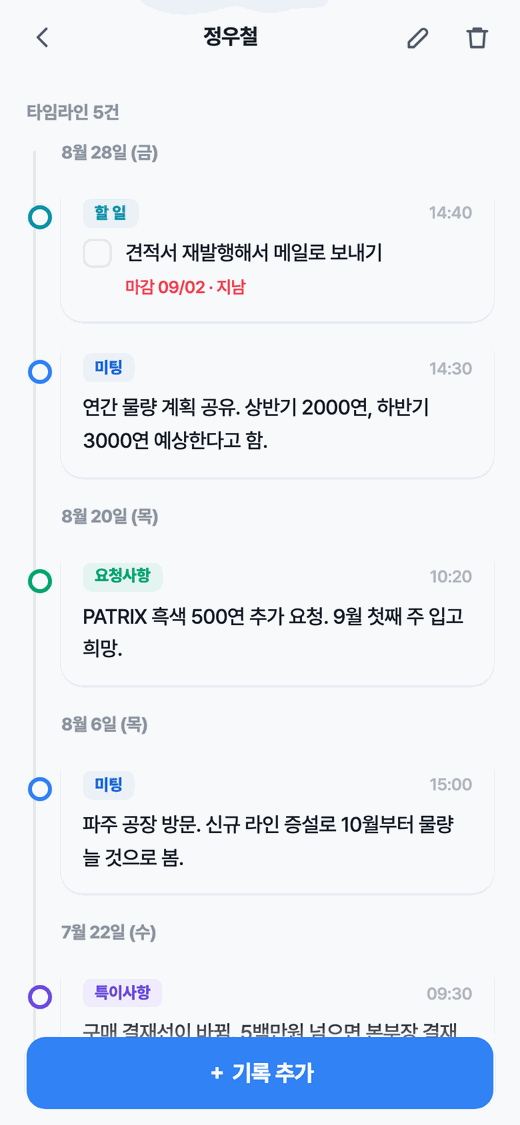
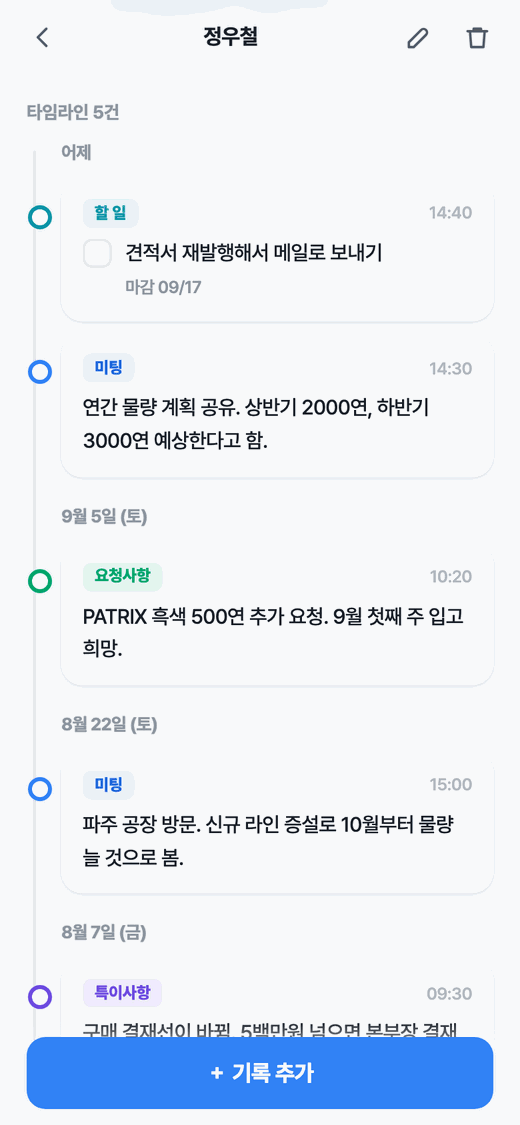
예시 화면의 날짜를 오늘 기준으로 셉니다
날짜를 박아 두었더니 다시 찍을 때마다 목록이 통째로 '납기 지남' 이 됐습니다.
홈페이지와 로그인 화면에 나가 있던 Re:Bind 그림이 '진행 중 2건 · 납기 지난 3건' 이었습니다.

예시날(n) · 예시시각(n,h,m) · 예시짧은(n) 을 두고 전부 상대값으로 바꿨습니다.
발주번호에 박힌 날짜(GD-260829-01)도 함께 — 번호만 8월이면 그것도 거짓말입니다.
Re:Call 은 이미 상대 도우미가 있었는데 바닥이 2026-08-29 로 박혀 있었습니다.

Re:Call 의 예시 이름만 '홍길동' 입니다 — 위쪽 막대가 '담당자 <이름>' 이라
이름까지 '담당자' 면 '담당자 담당자' 로 찍힙니다.

diff --git a/shots/bind-detail.js b/shots/bind-detail.js
@@ -1,4 +1,12 @@
 /* 예시 자료. 연락처는 우리 것을 씁니다 — 남의 번호를 박아 두면 그 사람에게 전화가 갑니다. */
+
+/* ⚠ 날짜를 박아 두면 안 됩니다.
+   예전에는 '2026-08-30' 처럼 적어 두었더니, 몇 달 뒤 다시 찍었을 때 목록이
+   통째로 "납기 지남" 이 되어 홈페이지 대표 그림이 엉망으로 나왔습니다.
+   찍는 날을 기준으로 셉니다 — 언제 다시 찍어도 늘 지금 날짜입니다. */
+var 예시날=function(n){var d=new Date(); d.setDate(d.getDate()+n);
+  var p=function(x){return String(x).padStart(2,'0')};
+  return d.getFullYear()+'-'+p(d.getMonth()+1)+'-'+p(d.getDate())};
 window.sbInit=function(){return true};
 sb={from:function(){return{select:function(){return{eq:function(){return{maybeSingle:async function(){return{data:null}}}}}}}},
     channel:function(){return{on:function(){return this},subscribe:function(){}}},removeAllChannels:function(){}};
@@ -10,35 +18,35 @@ issuer={biz_no:'119-37-01707',ceo:'최환준',tel:'010-6451-5807',
         bank:'국민은행 000-00-0000 디엔에이랩스',vat_rate:10,staff_money:false,staff_settle:false,staff_memo:false,preset:{}};
 var P=function(o){return Object.assign({kind:'project',owner:'u1',shared:[],code:'',person:'',phone:'010-6451-5807',
   email:'hello@dnalabs.kr',unit:'부',size:'',pages:null,color:'',paper:'',paperCover:'',paperInner:'',bind:'',finish:'',
-  options:[],price:0,vat:10,extras:[],costs:[],startedOn:'2026-08-10',dueOn:'2026-09-05',doneOn:null,
+  options:[],price:0,vat:10,extras:[],costs:[],startedOn:예시날(-20),dueOn:예시날(6),doneOn:null,
   billedOn:null,taxedOn:null,paidOn:null,photos:[],orderPhoto:null,memo:'',arrivals:[],token:null,shareOn:false,
-  hiddenOn:null,createdAt:'2026-08-10',updatedAt:'2026-08-28'},o)};
+  hiddenOn:null,createdAt:예시날(-20),updatedAt:예시날(-2)},o)};
 prjs=[
  P({id:'p1',name:'2027 하드커버 다이어리',client:'블루밍문구',person:'김민수 과장',code:'BL-2708',
     qty:3000,size:'국배판 148×210',pages:208,color:'표지 4도 / 내지 1도',
     paperCover:'스노우지 250g',paperInner:'모조지 80g',bind:'양장',finish:'무광코팅 · 박',
-    status:'running',dueOn:'2026-09-05',price:4800,
-    arrivals:[{n:'표지 용지',s:'스노우지 250g',on:'2026-08-18'},{n:'내지 용지',s:'모조지 80g',on:'2026-08-20'}],
+    status:'running',dueOn:예시날(6),price:4800,
+    arrivals:[{n:'표지 용지',s:'스노우지 250g',on:예시날(-12)},{n:'내지 용지',s:'모조지 80g',on:예시날(-10)}],
     shareOn:true,token:'x'}),
  P({id:'p2',name:'회사소개 브로슈어',client:'액티바코리아',person:'박지은 대리',code:'AC-0812',
     qty:1000,size:'A4',pages:24,color:'양면 4도',paperCover:'아트지 200g',paperInner:'아트지 150g',
-    bind:'중철',finish:'무광코팅',status:'running',dueOn:'2026-09-01',price:2200,
-    arrivals:[{n:'표지 용지',s:'아트지 200g',on:'2026-08-25'},{n:'내지 용지',s:'',on:null}]}),
+    bind:'중철',finish:'무광코팅',status:'running',dueOn:예시날(2),price:2200,
+    arrivals:[{n:'표지 용지',s:'아트지 200g',on:예시날(-5)},{n:'내지 용지',s:'',on:null}]}),
  P({id:'p3',name:'제품 카탈로그 2026',client:'대한제본',person:'이준호 팀장',code:'DH-0730',
     qty:500,size:'국배판',pages:64,color:'양면 4도',paperCover:'스노우지 200g',paperInner:'스노우지 120g',
-    bind:'무선',finish:'유광코팅',status:'done',dueOn:'2026-08-22',doneOn:'2026-08-21',price:3500,
-    billedOn:'2026-08-22'}),
+    bind:'무선',finish:'유광코팅',status:'done',dueOn:예시날(-8),doneOn:예시날(-9),price:3500,
+    billedOn:예시날(-8)}),
  P({id:'p4',name:'단어장 (스프링)',client:'한솔제지',person:'정현우 과장',code:'HS-0805',
     qty:2000,size:'A6',pages:128,color:'1도',paperCover:'아르떼 210g',paperInner:'모조지 70g',
-    bind:'트윈링',finish:'귀도리',status:'ready',dueOn:'2026-09-12',price:1600}),
+    bind:'트윈링',finish:'귀도리',status:'ready',dueOn:예시날(13),price:1600}),
 ];
 allSteps=[
- {id:'s1',projectId:'p1',name:'파일 입고 · 검수',percent:10,at:'2026-08-12',note:'',by:'u1',photoPath:null,createdAt:'2026-08-12'},
- {id:'s2',projectId:'p1',name:'인쇄',percent:35,at:'2026-08-19',note:'표지 4도 완료',by:'u1',photoPath:null,createdAt:'2026-08-19'},
- {id:'s3',projectId:'p1',name:'접지',percent:55,at:'2026-08-24',note:'',by:'u1',photoPath:null,createdAt:'2026-08-24'},
- {id:'s4',projectId:'p1',name:'정합',percent:70,at:'2026-08-27',note:'208면 확인',by:'u1',photoPath:null,createdAt:'2026-08-27'},
- {id:'s5',projectId:'p2',name:'인쇄',percent:40,at:'2026-08-26',note:'',by:'u1',photoPath:null,createdAt:'2026-08-26'},
- {id:'s6',projectId:'p3',name:'출고 · 납품',percent:100,at:'2026-08-21',note:'500부 전량',by:'u1',photoPath:null,createdAt:'2026-08-21'},
+ {id:'s1',projectId:'p1',name:'파일 입고 · 검수',percent:10,at:예시날(-18),note:'',by:'u1',photoPath:null,createdAt:예시날(-18)},
+ {id:'s2',projectId:'p1',name:'인쇄',percent:35,at:예시날(-11),note:'표지 4도 완료',by:'u1',photoPath:null,createdAt:예시날(-11)},
+ {id:'s3',projectId:'p1',name:'접지',percent:55,at:예시날(-6),note:'',by:'u1',photoPath:null,createdAt:예시날(-6)},
+ {id:'s4',projectId:'p1',name:'정합',percent:70,at:예시날(-3),note:'208면 확인',by:'u1',photoPath:null,createdAt:예시날(-3)},
+ {id:'s5',projectId:'p2',name:'인쇄',percent:40,at:예시날(-4),note:'',by:'u1',photoPath:null,createdAt:예시날(-4)},
+ {id:'s6',projectId:'p3',name:'출고 · 납품',percent:100,at:예시날(-9),note:'500부 전량',by:'u1',photoPath:null,createdAt:예시날(-9)},
 ];
 hideGate(); document.getElementById('app').hidden=false;
 paintMe(); paintPerms(); clearNew(); renderChips(); renderList(); renderQuotes(); paintIssuer(); paintTradeLabels();

diff --git a/shots/bind-list.js b/shots/bind-list.js
@@ -1,4 +1,12 @@
 /* 예시 자료. 연락처는 우리 것을 씁니다 — 남의 번호를 박아 두면 그 사람에게 전화가 갑니다. */
+
+/* ⚠ 날짜를 박아 두면 안 됩니다.
+   예전에는 '2026-08-30' 처럼 적어 두었더니, 몇 달 뒤 다시 찍었을 때 목록이
+   통째로 "납기 지남" 이 되어 홈페이지 대표 그림이 엉망으로 나왔습니다.
+   찍는 날을 기준으로 셉니다 — 언제 다시 찍어도 늘 지금 날짜입니다. */
+var 예시날=function(n){var d=new Date(); d.setDate(d.getDate()+n);
+  var p=function(x){return String(x).padStart(2,'0')};
+  return d.getFullYear()+'-'+p(d.getMonth()+1)+'-'+p(d.getDate())};
 window.sbInit=function(){return true};
 sb={from:function(){return{select:function(){return{eq:function(){return{maybeSingle:async function(){return{data:null}}}}}}}},
     channel:function(){return{on:function(){return this},subscribe:function(){}}},removeAllChannels:function(){}};
@@ -10,35 +18,35 @@ issuer={biz_no:'119-37-01707',ceo:'최환준',tel:'010-6451-5807',
         bank:'국민은행 000-00-0000 디엔에이랩스',vat_rate:10,staff_money:false,staff_settle:false,staff_memo:false,preset:{}};
 var P=function(o){return Object.assign({kind:'project',owner:'u1',shared:[],code:'',person:'',phone:'010-6451-5807',
   email:'hello@dnalabs.kr',unit:'부',size:'',pages:null,color:'',paper:'',paperCover:'',paperInner:'',bind:'',finish:'',
-  options:[],price:0,vat:10,extras:[],costs:[],startedOn:'2026-08-10',dueOn:'2026-09-05',doneOn:null,
+  options:[],price:0,vat:10,extras:[],costs:[],startedOn:예시날(-20),dueOn:예시날(6),doneOn:null,
   billedOn:null,taxedOn:null,paidOn:null,photos:[],orderPhoto:null,memo:'',arrivals:[],token:null,shareOn:false,
-  hiddenOn:null,createdAt:'2026-08-10',updatedAt:'2026-08-28'},o)};
+  hiddenOn:null,createdAt:예시날(-20),updatedAt:예시날(-2)},o)};
 prjs=[
  P({id:'p1',name:'2027 하드커버 다이어리',client:'블루밍문구',person:'김민수 과장',code:'BL-2708',
     qty:3000,size:'국배판 148×210',pages:208,color:'표지 4도 / 내지 1도',
     paperCover:'스노우지 250g',paperInner:'모조지 80g',bind:'양장',finish:'무광코팅 · 박',
-    status:'running',dueOn:'2026-09-05',price:4800,
-    arrivals:[{n:'표지 용지',s:'스노우지 250g',on:'2026-08-18'},{n:'내지 용지',s:'모조지 80g',on:'2026-08-20'}],
+    status:'running',dueOn:예시날(6),price:4800,
+    arrivals:[{n:'표지 용지',s:'스노우지 250g',on:예시날(-12)},{n:'내지 용지',s:'모조지 80g',on:예시날(-10)}],
     shareOn:true,token:'x'}),
  P({id:'p2',name:'회사소개 브로슈어',client:'액티바코리아',person:'박지은 대리',code:'AC-0812',
     qty:1000,size:'A4',pages:24,color:'양면 4도',paperCover:'아트지 200g',paperInner:'아트지 150g',
-    bind:'중철',finish:'무광코팅',status:'running',dueOn:'2026-09-01',price:2200,
-    arrivals:[{n:'표지 용지',s:'아트지 200g',on:'2026-08-25'},{n:'내지 용지',s:'',on:null}]}),
+    bind:'중철',finish:'무광코팅',status:'running',dueOn:예시날(2),price:2200,
+    arrivals:[{n:'표지 용지',s:'아트지 200g',on:예시날(-5)},{n:'내지 용지',s:'',on:null}]}),
  P({id:'p3',name:'제품 카탈로그 2026',client:'대한제본',person:'이준호 팀장',code:'DH-0730',
     qty:500,size:'국배판',pages:64,color:'양면 4도',paperCover:'스노우지 200g',paperInner:'스노우지 120g',
-    bind:'무선',finish:'유광코팅',status:'done',dueOn:'2026-08-22',doneOn:'2026-08-21',price:3500,
-    billedOn:'2026-08-22'}),
+    bind:'무선',finish:'유광코팅',status:'done',dueOn:예시날(-8),doneOn:예시날(-9),price:3500,
+    billedOn:예시날(-8)}),
  P({id:'p4',name:'단어장 (스프링)',client:'한솔제지',person:'정현우 과장',code:'HS-0805',
     qty:2000,size:'A6',pages:128,color:'1도',paperCover:'아르떼 210g',paperInner:'모조지 70g',
-    bind:'트윈링',finish:'귀도리',status:'ready',dueOn:'2026-09-12',price:1600}),
+    bind:'트윈링',finish:'귀도리',status:'ready',dueOn:예시날(13),price:1600}),
 ];
 allSteps=[
- {id:'s1',projectId:'p1',name:'파일 입고 · 검수',percent:10,at:'2026-08-12',note:'',by:'u1',photoPath:null,createdAt:'2026-08-12'},
- {id:'s2',projectId:'p1',name:'인쇄',percent:35,at:'2026-08-19',note:'표지 4도 완료',by:'u1',photoPath:null,createdAt:'2026-08-19'},
- {id:'s3',projectId:'p1',name:'접지',percent:55,at:'2026-08-24',note:'',by:'u1',photoPath:null,createdAt:'2026-08-24'},
- {id:'s4',projectId:'p1',name:'정합',percent:70,at:'2026-08-27',note:'208면 확인',by:'u1',photoPath:null,createdAt:'2026-08-27'},
- {id:'s5',projectId:'p2',name:'인쇄',percent:40,at:'2026-08-26',note:'',by:'u1',photoPath:null,createdAt:'2026-08-26'},
- {id:'s6',projectId:'p3',name:'출고 · 납품',percent:100,at:'2026-08-21',note:'500부 전량',by:'u1',photoPath:null,createdAt:'2026-08-21'},
+ {id:'s1',projectId:'p1',name:'파일 입고 · 검수',percent:10,at:예시날(-18),note:'',by:'u1',photoPath:null,createdAt:예시날(-18)},
+ {id:'s2',projectId:'p1',name:'인쇄',percent:35,at:예시날(-11),note:'표지 4도 완료',by:'u1',photoPath:null,createdAt:예시날(-11)},
+ {id:'s3',projectId:'p1',name:'접지',percent:55,at:예시날(-6),note:'',by:'u1',photoPath:null,createdAt:예시날(-6)},
+ {id:'s4',projectId:'p1',name:'정합',percent:70,at:예시날(-3),note:'208면 확인',by:'u1',photoPath:null,createdAt:예시날(-3)},
+ {id:'s5',projectId:'p2',name:'인쇄',percent:40,at:예시날(-4),note:'',by:'u1',photoPath:null,createdAt:예시날(-4)},
+ {id:'s6',projectId:'p3',name:'출고 · 납품',percent:100,at:예시날(-9),note:'500부 전량',by:'u1',photoPath:null,createdAt:예시날(-9)},
 ];
 hideGate(); document.getElementById('app').hidden=false;
 paintMe(); paintPerms(); clearNew(); renderChips(); renderList(); renderQuotes(); paintIssuer(); paintTradeLabels();

diff --git a/shots/store-orders.js b/shots/store-orders.js
@@ -1,4 +1,15 @@
 /* Re:Store 발주 목록. 예시 자료입니다 — 점포 연락처는 우리 것을 씁니다. */
+
+/* ⚠ 날짜를 박아 두면 안 됩니다.
+   예전에는 '2026-08-30' 처럼 적어 두었더니, 몇 달 뒤 다시 찍었을 때 목록이
+   통째로 "납기 지남" 이 되어 홈페이지 대표 그림이 엉망으로 나왔습니다.
+   찍는 날을 기준으로 셉니다 — 언제 다시 찍어도 늘 지금 날짜입니다. */
+var 예시날=function(n){var d=new Date(); d.setDate(d.getDate()+n);
+  var p=function(x){return String(x).padStart(2,'0')};
+  return d.getFullYear()+'-'+p(d.getMonth()+1)+'-'+p(d.getDate())};
+var 예시시각=function(n,h,m){var p=function(x){return String(x).padStart(2,'0')};
+  return 예시날(n)+'T'+p(h)+':'+p(m)+':00'};
+var 예시짧은=function(n){return 예시날(n).slice(2).replace(/-/g,'')};
 window.sbInit=function(){return true};
 sb={channel:function(){return{on:function(){return this},subscribe:function(){}}},
     removeAllChannels:function(){}};
@@ -28,20 +39,20 @@ var L=function(id,q){var i=items.find(function(x){return x.id===id});
           ship_qty:null,taxfree:false}};
 var O=function(o){return Object.assign({vat_rate:10,billed_ym:null,memo:''},o)};
 orders=[
- O({id:'o1',no:'GD-260829-01',store_id:'s1',status:'placed',
-    ordered_at:'2026-08-29T08:12:00',want_on:'2026-08-30',
+ O({id:'o1',no:'GD-'+예시짧은(0)+'-01',store_id:'s1',status:'placed',
+    ordered_at:예시시각(0,8,12),want_on:예시날(1),
     lines:[L('i1',20),L('i2',2),L('i3',10),L('i4',200),L('i5',4)]}),
- O({id:'o2',no:'GD-260829-02',store_id:'s3',status:'placed',
-    ordered_at:'2026-08-29T09:40:00',want_on:'2026-08-31',
+ O({id:'o2',no:'GD-'+예시짧은(0)+'-02',store_id:'s3',status:'placed',
+    ordered_at:예시시각(0,9,40),want_on:예시날(2),
     lines:[L('i1',12),L('i3',6),L('i4',150)]}),
- O({id:'o3',no:'GD-260828-04',store_id:'s2',status:'confirmed',
-    ordered_at:'2026-08-28T17:05:00',want_on:'2026-08-30',
+ O({id:'o3',no:'GD-'+예시짧은(-1)+'-04',store_id:'s2',status:'confirmed',
+    ordered_at:예시시각(-1,17,5),want_on:예시날(1),
     lines:[L('i1',15),L('i2',3),L('i5',6)]}),
- O({id:'o4',no:'GD-260827-01',store_id:'s4',status:'shipped',
-    ordered_at:'2026-08-27T08:30:00',want_on:'2026-08-28',
+ O({id:'o4',no:'GD-'+예시짧은(-2)+'-01',store_id:'s4',status:'shipped',
+    ordered_at:예시시각(-2,8,30),want_on:예시날(-1),
     lines:[L('i1',18),L('i3',8),L('i4',300)]}),
- O({id:'o5',no:'GD-260826-02',store_id:'s1',status:'done',
-    ordered_at:'2026-08-26T09:10:00',want_on:'2026-08-27',
+ O({id:'o5',no:'GD-'+예시짧은(-3)+'-02',store_id:'s1',status:'done',
+    ordered_at:예시시각(-3,9,10),want_on:예시날(-2),
     lines:[L('i1',22),L('i2',2),L('i5',5)]}),
 ];
 showApp(); go('orders'); window.scrollTo(0,0);

diff --git a/shots/store-order.js b/shots/store-order.js
@@ -1,4 +1,15 @@
 /* Re:Store 발주 상세. 예시 자료입니다 — 점포 연락처는 우리 것을 씁니다. */
+
+/* ⚠ 날짜를 박아 두면 안 됩니다.
+   예전에는 '2026-08-30' 처럼 적어 두었더니, 몇 달 뒤 다시 찍었을 때 목록이
+   통째로 "납기 지남" 이 되어 홈페이지 대표 그림이 엉망으로 나왔습니다.
+   찍는 날을 기준으로 셉니다 — 언제 다시 찍어도 늘 지금 날짜입니다. */
+var 예시날=function(n){var d=new Date(); d.setDate(d.getDate()+n);
+  var p=function(x){return String(x).padStart(2,'0')};
+  return d.getFullYear()+'-'+p(d.getMonth()+1)+'-'+p(d.getDate())};
+var 예시시각=function(n,h,m){var p=function(x){return String(x).padStart(2,'0')};
+  return 예시날(n)+'T'+p(h)+':'+p(m)+':00'};
+var 예시짧은=function(n){return 예시날(n).slice(2).replace(/-/g,'')};
 window.sbInit=function(){return true};
 sb={channel:function(){return{on:function(){return this},subscribe:function(){}}},
     removeAllChannels:function(){}};
@@ -28,20 +39,20 @@ var L=function(id,q){var i=items.find(function(x){return x.id===id});
           ship_qty:null,taxfree:false}};
 var O=function(o){return Object.assign({vat_rate:10,billed_ym:null,memo:''},o)};
 orders=[
- O({id:'o1',no:'GD-260829-01',store_id:'s1',status:'placed',
-    ordered_at:'2026-08-29T08:12:00',want_on:'2026-08-30',
+ O({id:'o1',no:'GD-'+예시짧은(0)+'-01',store_id:'s1',status:'placed',
+    ordered_at:예시시각(0,8,12),want_on:예시날(1),
     lines:[L('i1',20),L('i2',2),L('i3',10),L('i4',200),L('i5',4)]}),
- O({id:'o2',no:'GD-260829-02',store_id:'s3',status:'placed',
-    ordered_at:'2026-08-29T09:40:00',want_on:'2026-08-31',
+ O({id:'o2',no:'GD-'+예시짧은(0)+'-02',store_id:'s3',status:'placed',
+    ordered_at:예시시각(0,9,40),want_on:예시날(2),
     lines:[L('i1',12),L('i3',6),L('i4',150)]}),
- O({id:'o3',no:'GD-260828-04',store_id:'s2',status:'confirmed',
-    ordered_at:'2026-08-28T17:05:00',want_on:'2026-08-30',
+ O({id:'o3',no:'GD-'+예시짧은(-1)+'-04',store_id:'s2',status:'confirmed',
+    ordered_at:예시시각(-1,17,5),want_on:예시날(1),
     lines:[L('i1',15),L('i2',3),L('i5',6)]}),
- O({id:'o4',no:'GD-260827-01',store_id:'s4',status:'shipped',
-    ordered_at:'2026-08-27T08:30:00',want_on:'2026-08-28',
+ O({id:'o4',no:'GD-'+예시짧은(-2)+'-01',store_id:'s4',status:'shipped',
+    ordered_at:예시시각(-2,8,30),want_on:예시날(-1),
     lines:[L('i1',18),L('i3',8),L('i4',300)]}),
- O({id:'o5',no:'GD-260826-02',store_id:'s1',status:'done',
-    ordered_at:'2026-08-26T09:10:00',want_on:'2026-08-27',
+ O({id:'o5',no:'GD-'+예시짧은(-3)+'-02',store_id:'s1',status:'done',
+    ordered_at:예시시각(-3,9,10),want_on:예시날(-2),
     lines:[L('i1',22),L('i2',2),L('i5',5)]}),
 ];
 showApp(); go("orders"); openOrder("o1");

diff --git a/shots/call-list.js b/shots/call-list.js
@@ -2,15 +2,22 @@
 window.sbInit=function(){return true};
 sb={channel:function(){return{on:function(){return this},subscribe:function(){}}},
     removeAllChannels:function(){}};
-me={id:'u1',name:'담당자',loginId:'admin',role:'admin',companyId:'c1',
+me={id:'u1',name:'홍길동',loginId:'admin',role:'admin',companyId:'c1',
     companyCode:'BKT',companyName:'디엔에이랩스',apps:['recall']};
 /* 담당자·공유는 이름이 아니라 계정 id 로 잡습니다 — 이름으로 넣으면 동그라미가 '?' 로 뜹니다 */
-cfg.members=[{id:'u1',name:'담당자'},{id:'u2',name:'김서연'},{id:'u3',name:'박도현'}];
+cfg.members=[{id:'u1',name:'홍길동'},{id:'u2',name:'김서연'},{id:'u3',name:'박도현'}];
 cfg.groups=['신규','진행 중','주요 고객','대리점'];
 
 /* 앱은 'YYYY-MM-DDTHH:mm' 지역시각으로 씁니다. toISOString() 을 쓰면
    UTC 로 아홉 시간 당겨져 오후 2시가 05:30 으로 찍힙니다. */
-var 날=function(n,h,m){var d=new Date(2026,7,29); d.setDate(d.getDate()-n);
+/* ⚠ 날짜를 박아 두면 안 됩니다.
+   예전에는 '2026-08-30' 처럼 적어 두었더니, 몇 달 뒤 다시 찍었을 때 목록이
+   통째로 "납기 지남" 이 되어 홈페이지 대표 그림이 엉망으로 나왔습니다.
+   찍는 날을 기준으로 셉니다 — 언제 다시 찍어도 늘 지금 날짜입니다. */
+var 예시날=function(n){var d=new Date(); d.setDate(d.getDate()+n);
+  var p=function(x){return String(x).padStart(2,'0')};
+  return d.getFullYear()+'-'+p(d.getMonth()+1)+'-'+p(d.getDate())};
+var 날=function(n,h,m){var d=new Date(); d.setDate(d.getDate()-n);
   var p=function(x){return String(x).padStart(2,'0')};
   return d.getFullYear()+'-'+p(d.getMonth()+1)+'-'+p(d.getDate())+'T'+p(h)+':'+p(m)};
 var C=function(o){return Object.assign({groups:[],owner:'u1',shared:[],photo:null,
@@ -33,7 +40,7 @@ custs=[
 acts=[
  A({uid:'a1',cid:'c1',kind:'meeting',at:날(1,14,30),
     body:'연간 물량 계획 공유. 상반기 2000연, 하반기 3000연 예상한다고 함.'}),
- A({uid:'a2',cid:'c1',kind:'todo',at:날(1,14,40),due:'2026-09-02',
+ A({uid:'a2',cid:'c1',kind:'todo',at:날(1,14,40),due:예시날(3),
     body:'견적서 재발행해서 메일로 보내기'}),
  A({uid:'a3',cid:'c2',kind:'request',at:날(3,11,0),
     body:'MUSE 2 샘플 5종 요청. 다음 주 화요일까지 도착 희망.'}),

diff --git a/shots/call-detail.js b/shots/call-detail.js
@@ -2,15 +2,22 @@
 window.sbInit=function(){return true};
 sb={channel:function(){return{on:function(){return this},subscribe:function(){}}},
     removeAllChannels:function(){}};
-me={id:'u1',name:'담당자',loginId:'admin',role:'admin',companyId:'c1',
+me={id:'u1',name:'홍길동',loginId:'admin',role:'admin',companyId:'c1',
     companyCode:'BKT',companyName:'디엔에이랩스',apps:['recall']};
 /* 담당자·공유는 이름이 아니라 계정 id 로 잡습니다 — 이름으로 넣으면 동그라미가 '?' 로 뜹니다 */
-cfg.members=[{id:'u1',name:'담당자'},{id:'u2',name:'김서연'},{id:'u3',name:'박도현'}];
+cfg.members=[{id:'u1',name:'홍길동'},{id:'u2',name:'김서연'},{id:'u3',name:'박도현'}];
 cfg.groups=['신규','진행 중','주요 고객','대리점'];
 
 /* 앱은 'YYYY-MM-DDTHH:mm' 지역시각으로 씁니다. toISOString() 을 쓰면
    UTC 로 아홉 시간 당겨져 오후 2시가 05:30 으로 찍힙니다. */
-var 날=function(n,h,m){var d=new Date(2026,7,29); d.setDate(d.getDate()-n);
+/* ⚠ 날짜를 박아 두면 안 됩니다.
+   예전에는 '2026-08-30' 처럼 적어 두었더니, 몇 달 뒤 다시 찍었을 때 목록이
+   통째로 "납기 지남" 이 되어 홈페이지 대표 그림이 엉망으로 나왔습니다.
+   찍는 날을 기준으로 셉니다 — 언제 다시 찍어도 늘 지금 날짜입니다. */
+var 예시날=function(n){var d=new Date(); d.setDate(d.getDate()+n);
+  var p=function(x){return String(x).padStart(2,'0')};
+  return d.getFullYear()+'-'+p(d.getMonth()+1)+'-'+p(d.getDate())};
+var 날=function(n,h,m){var d=new Date(); d.setDate(d.getDate()-n);
   var p=function(x){return String(x).padStart(2,'0')};
   return d.getFullYear()+'-'+p(d.getMonth()+1)+'-'+p(d.getDate())+'T'+p(h)+':'+p(m)};
 var C=function(o){return Object.assign({groups:[],owner:'u1',shared:[],photo:null,
@@ -33,7 +40,7 @@ custs=[
 acts=[
  A({uid:'a1',cid:'c1',kind:'meeting',at:날(1,14,30),
     body:'연간 물량 계획 공유. 상반기 2000연, 하반기 3000연 예상한다고 함.'}),
- A({uid:'a2',cid:'c1',kind:'todo',at:날(1,14,40),due:'2026-09-02',
+ A({uid:'a2',cid:'c1',kind:'todo',at:날(1,14,40),due:예시날(3),
     body:'견적서 재발행해서 메일로 보내기'}),
  A({uid:'a7',cid:'c1',kind:'request',at:날(9,10,20),
     body:'PATRIX 흑색 500연 추가 요청. 9월 첫째 주 입고 희망.'}),

diff --git a/이어서-하기.md b/이어서-하기.md
@@ -822,3 +822,13 @@ https://claude.ai/code/artifact/83fab15c-0662-48b5-b616-624541218cb7
 
 왼쪽(토글 + 로그인) · 오른쪽(고른 서비스 소개 + 실제 화면). 네 앱 모두. 자세한 것은 RECALL.md 8장.
 그림은 `build-shots.sh` 가 찍어 둔 것을 그대로 씁니다 — 앱을 고치면 로그인 화면도 함께 최신이 됩니다.
+
+## 2026-09-14 (2) — 촬영용 예시 자료의 날짜를 오늘 기준으로
+
+`shots/*.js` 에 날짜가 박혀 있어서, 다시 찍을 때마다 목록이 통째로 "납기 지남" 이 됐습니다
+(홈페이지 대표 그림이 "진행 중 2건 · 납기 지난 3건" 으로 나가 있었습니다).
+`예시날(n)` · `예시시각(n,h,m)` · `예시짧은(n)` 을 두고 전부 오늘 기준 상대값으로 바꿨습니다 —
+발주번호에 박힌 날짜(GD-260829-01)까지.
+
+⚠ Re:Call 위쪽 막대는 "담당자 <이름>" 으로 찍습니다. 예시 이름을 '담당자' 로 두면
+"담당자 담당자" 가 되어, 이 앱의 예시 이름만 '홍길동' 입니다.
